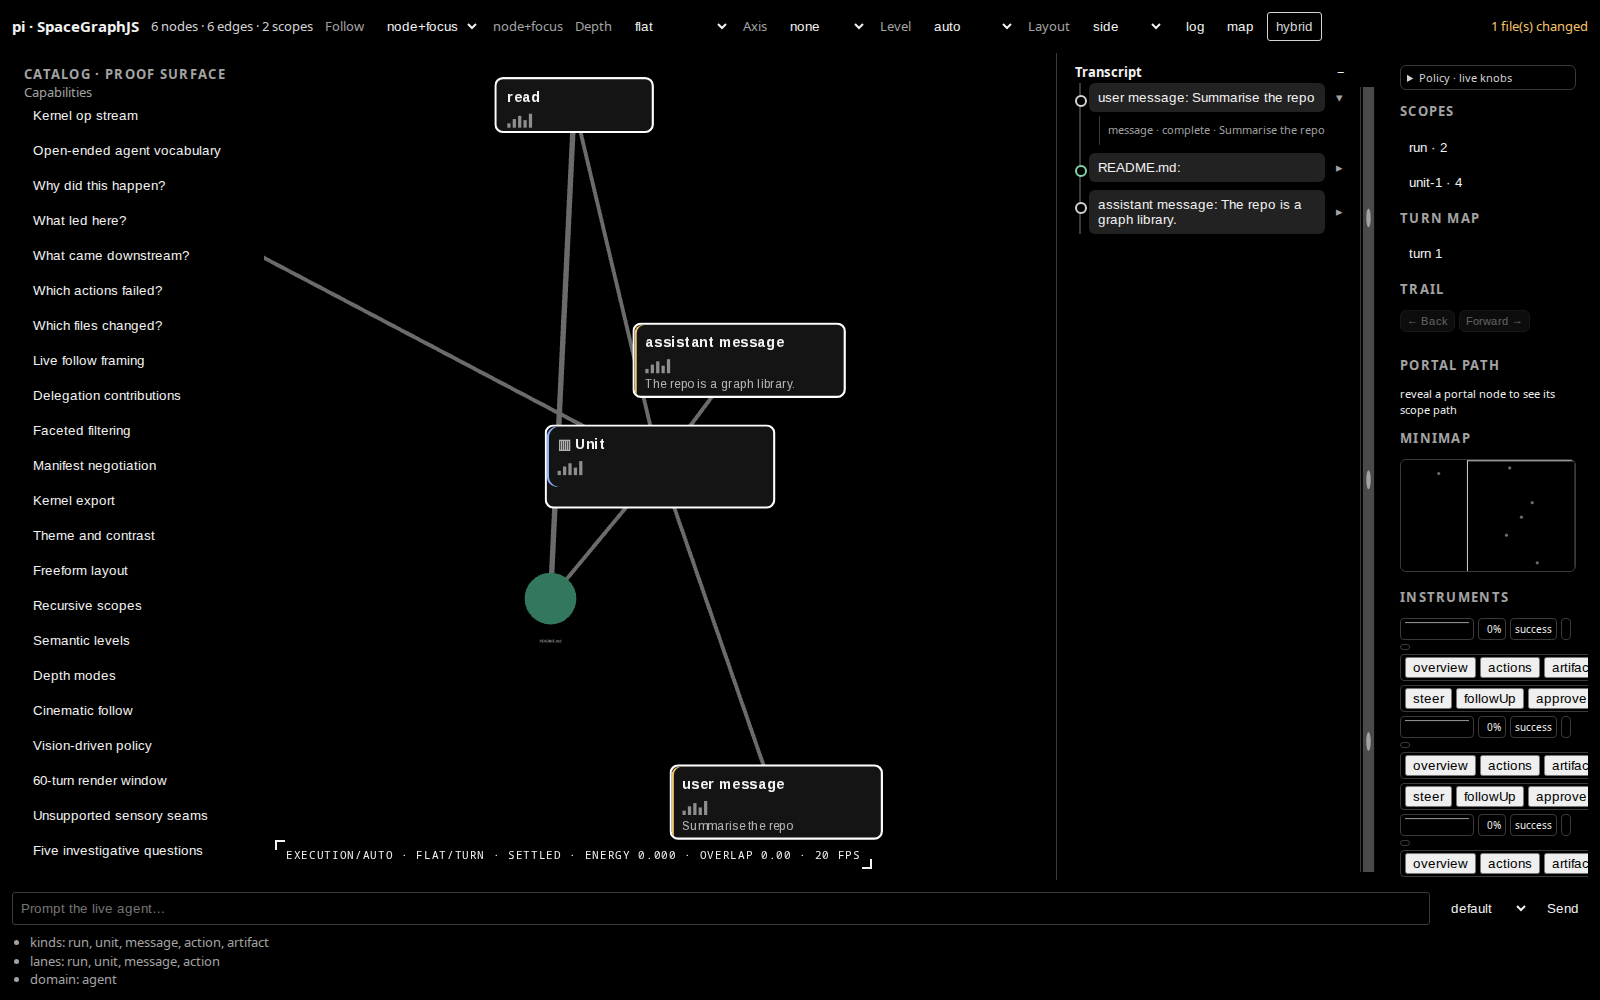
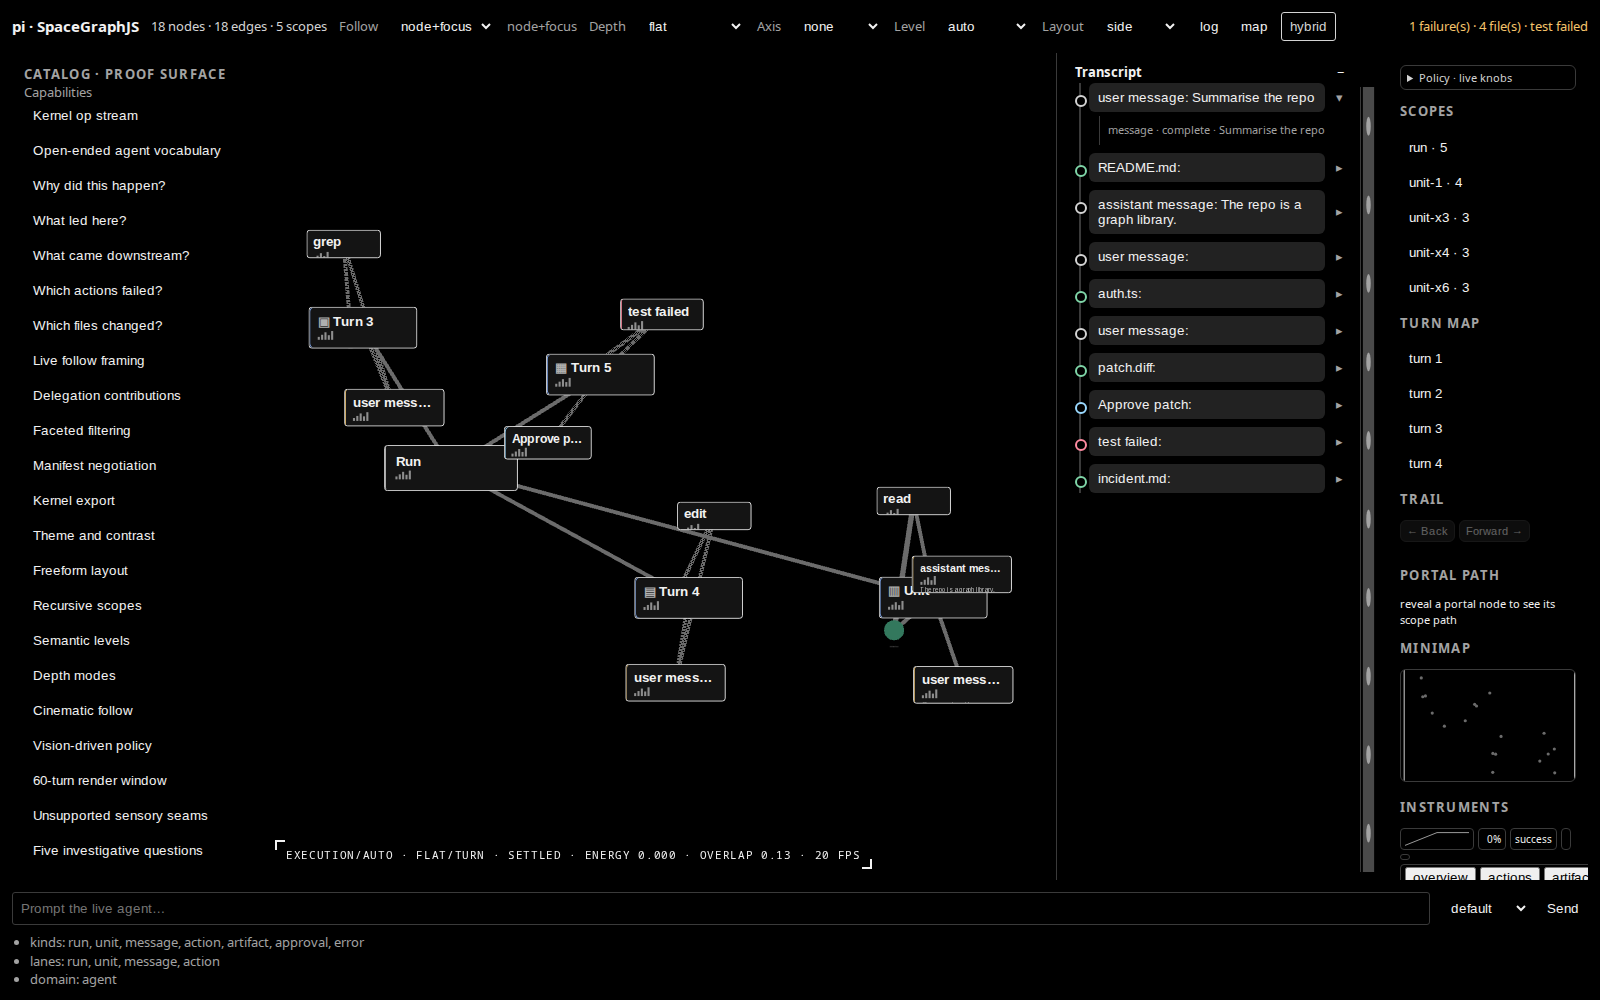
feat(pi): size labels by LOD threshold and add showcase scenario
Labels are now measured against a configurable on-screen floor
(ladder.minLabelPx) using the live viewport extent and the representation
rung, instead of fixed detail-scale pixels. Add a deterministic rich
scenario and compact preset for the screenshot, defer the one-shot fit
until the initial op burst arrives, and refresh the capture gallery.

diff --git a/app/pi/src/adapter.ts b/app/pi/src/adapter.ts
@@ -22,16 +22,16 @@ export type AgentAdapterModel = AdapterModel<AgentAdapterNode, AgentAdapterEdge>
 export type AgentLevel = RepresentationRung;
 
 const CARD_SIZES: Readonly<Record<string, readonly [number, number]>> = {
-    run: [260, 88],
-    unit: [214, 78],
-    message: [198, 70],
-    artifact: [152, 54],
-    file: [152, 54],
-    tool: [148, 52],
-    'read-tool': [148, 52],
-    action: [148, 52],
-    error: [164, 58],
-    approval: [180, 60],
+    run: [320, 110],
+    unit: [260, 100],
+    message: [240, 90],
+    artifact: [190, 72],
+    file: [190, 72],
+    tool: [178, 68],
+    'read-tool': [178, 68],
+    action: [178, 68],
+    error: [200, 76],
+    approval: [210, 80],
 };
 
 const DOT_SIZES: Readonly<Record<string, readonly [number, number]>> = {
@@ -93,6 +93,7 @@ export const cardMarkup = (
     context: CardContext,
     blend = 0,
     descending = false,
+    labelPx = 0,
 ): string => {
     const label = escapeHtml(node.label);
     const detail = escapeHtml(detailOf(node));
@@ -105,21 +106,23 @@ export const cardMarkup = (
         ? `<span aria-hidden="true" style="opacity:.7">${portalGlyph(node.scope)} </span>`
         : '';
     const attributes = `data-rung="${rung}" data-blend="${blend.toFixed(2)}" data-kind="${escapeHtml(node.kind)}" data-status="${status}"${portal}${descending ? ' data-descending="true"' : ''}`;
-    const box = 'display:flex;flex-direction:column;gap:3px;padding:8px 10px;color:inherit;font-family:inherit;transition:opacity var(--pi-blend,120ms)';
+    const box = 'display:flex;flex-direction:column;justify-content:center;gap:4px;padding:6% 8%;box-sizing:border-box;height:100%;color:inherit;font-family:inherit;overflow:hidden;transition:opacity var(--pi-blend,120ms)';
 
     if (rung === 'overview') {
-        return `<div ${attributes} style="${box}"><span style="font-weight:600">${glyph}${label}${badge}</span></div>`;
+        const labelSize = labelPx || 44;
+        return `<div ${attributes} style="${box}"><span style="font-size:${labelSize}px;font-weight:700;line-height:1;letter-spacing:-0.03em;white-space:nowrap;overflow:hidden;text-overflow:ellipsis;max-width:100%"><span aria-hidden="true" style="font-size:${Math.round(labelSize * 0.6)}px">${glyph}</span>${label}</span></div>`;
     }
     if (rung === 'execution') {
         const bars = [0.3, 0.55, 0.8, 0.5, 0.95]
-            .map((height) => `<i style="display:inline-block;width:3px;height:${Math.round(height * 14)}px;background:currentColor;opacity:.55"></i>`)
+            .map((height) => `<i style="display:inline-block;width:5px;height:${Math.round(height * 22)}px;background:currentColor;opacity:.55"></i>`)
             .join('');
-        return `<div ${attributes} style="${box}"><span style="font-weight:600">${glyph}${label}${badge}</span><span style="display:flex;align-items:flex-end;gap:2px;height:16px">${bars}</span><span style="opacity:.72;font-size:11px;white-space:nowrap;overflow:hidden;text-overflow:ellipsis">${detail.slice(0, 80)}</span></div>`;
+        const labelSize = labelPx || 26;
+        return `<div ${attributes} style="${box}"><span style="font-size:${labelSize}px;font-weight:700;line-height:1.1;letter-spacing:-0.02em;white-space:nowrap;overflow:hidden;text-overflow:ellipsis">${glyph}${label}${badge}</span><span style="display:flex;align-items:flex-end;gap:3px;height:22px">${bars}</span><span style="opacity:.72;font-size:${Math.max(12, labelSize * 0.6)}px;line-height:1.2;white-space:nowrap;overflow:hidden;text-overflow:ellipsis">${detail.slice(0, 80)}</span></div>`;
     }
     const scope = node.scope
-        ? `<span style="opacity:.7;font-size:11px">${portalGlyph(node.scope)} scope: ${escapeHtml(node.scope)}</span>`
+        ? `<span style="opacity:.7;font-size:13px">${portalGlyph(node.scope)} scope: ${escapeHtml(node.scope)}</span>`
         : '';
-    return `<div ${attributes} style="${box}"><span style="font-weight:600">${glyph}${label}${badge}</span><span style="opacity:.78;font-size:12px;line-height:16px;max-height:64px;overflow:hidden">${detail.slice(0, 320)}</span><span style="opacity:.6;font-size:11px">${escapeHtml(node.kind)} · ${status} · reveal / follow / trace</span>${scope}</div>`;
+    return `<div ${attributes} style="${box}"><span style="font-size:${labelPx || 20}px;font-weight:700;line-height:1.15">${glyph}${label}${badge}</span><span style="opacity:.78;font-size:15px;line-height:1.35;overflow:hidden">${detail.slice(0, 320)}</span><span style="opacity:.6;font-size:13px">${escapeHtml(node.kind)} · ${status} · reveal / follow / trace</span>${scope}</div>`;
 };
 
 /**
@@ -131,12 +134,13 @@ export const composedCardMarkup = (
     layers: readonly RepresentationLayer[],
     context: CardContext,
     descending = false,
+    labelPx = 0,
 ): string => {
     const primary = layers.at(-1);
     const secondary = layers.at(-2);
-    if (!secondary) return cardMarkup(node, primary?.rung ?? 'overview', context, 0, descending);
+    if (!secondary) return cardMarkup(node, primary?.rung ?? 'overview', context, 0, descending, labelPx);
     const layer = ({ rung, opacity }: RepresentationLayer, lower: boolean): string =>
-        `<div data-layer="${rung}" style="position:absolute;inset:0;opacity:${opacity.toFixed(3)};transition:opacity var(--pi-blend,120ms)${lower ? ';pointer-events:none' : ''}">${cardMarkup(node, rung, context, 0, descending)}</div>`;
+        `<div data-layer="${rung}" style="position:absolute;inset:0;opacity:${opacity.toFixed(3)};transition:opacity var(--pi-blend,120ms)${lower ? ';pointer-events:none' : ''}">${cardMarkup(node, rung, context, 0, descending, labelPx)}</div>`;
     return `<div data-rungs="${secondary.rung}+${primary!.rung}" style="position:relative;min-height:56px">${layer(secondary, true)}${layer(primary!, false)}</div>`;
 };
 

diff --git a/app/pi/src/host.ts b/app/pi/src/host.ts
@@ -56,7 +56,7 @@ import {
 } from './annotations';
 import { CAPABILITIES, capabilityContext, runCapability, type PiHostState } from './capabilities';
 import { buildCatalog, mountCatalog, type Catalog } from './catalog';
-import { FIXTURE_ID, fixtureKernel } from './fixture';
+import { FIXTURE_ID, fixtureKernel, richFixtureKernel } from './fixture';
 import { foldKernelOps } from './ops';
 import {
     UNSUPPORTED,
@@ -64,6 +64,7 @@ import {
     exportHTML,
     exportJSON,
     exportSVG,
+    labelFontPx,
     levelForZoom,
     scoreVision,
     unsupportedSeams,
@@ -297,6 +298,8 @@ export class PiHost {
     #transcriptWidth = 320;
     #transcriptHeight = 200;
     #expandedMessages = new Set<string>();
+    #initialFitDone = false;
+    #initialFitTimer?: ReturnType<typeof setTimeout>;
     #policyPanel?: ReturnType<typeof mountPolicyPanel>;
     #policyListeners = new Set<(event: PolicyChangeEvent) => void>();
     #recorder: SessionRecorder;
@@ -321,6 +324,8 @@ export class PiHost {
                 matchMedia('(prefers-reduced-motion: reduce)').matches);
         const params =
             typeof location === 'undefined' ? new URLSearchParams() : new URLSearchParams(location.search);
+        const scenario = params.get('scenario');
+        if (scenario === 'rich') this.#kernel = richFixtureKernel();
         const presetID = params.get('preset');
         const embedded = params.get('policy');
         if (presetID && presetById(presetID)) {
@@ -606,7 +611,11 @@ export class PiHost {
             this.setVisionLoop(true);
         }
         this.applyPolicy();
-        this.fitView();
+        if (this.#kernel.nodes.length > 0) {
+            this.#initialFitDone = true;
+            this.fitView();
+            requestAnimationFrame(() => this.paint());
+        }
         this.syncClock();
 
         document.addEventListener('visibilitychange', () => {
@@ -670,6 +679,17 @@ export class PiHost {
         this.renderTranscript();
         this.renderTurnMap();
         this.syncClock();
+        if (!this.#initialFitDone && this.#kernel.nodes.length > 0) {
+            if (this.#initialFitTimer) clearTimeout(this.#initialFitTimer);
+            this.#initialFitTimer = setTimeout(() => {
+                if (this.#initialFitDone) return;
+                this.#initialFitDone = true;
+                this.simulation.settle();
+                this.renderPositions();
+                this.fitView();
+                requestAnimationFrame(() => this.paint());
+            }, 120);
+        }
     }
 
     paint(): void {
@@ -682,6 +702,10 @@ export class PiHost {
             return scope ? { ...node, scope } : node;
         });
         const values = this.#resolved.values;
+        const viewport = this.renderer.getViewport();
+        const pixelsPerWorld =
+            (el('canvas').clientWidth || 1000) / Math.max(viewport.extent?.width ?? 1000, 1);
+        const minLabelPx = Number(values['ladder.minLabelPx']);
         const thresholds = {
             promoteAt: Number(values['ladder.promoteAt']),
             legibilityGate: Number(values['ladder.legibilityGate']),
@@ -705,9 +729,15 @@ export class PiHost {
                 const rung = representationRung(input, thresholds);
                 if (rung === 'detail') detailNodes.add(node.id);
                 const layers = representationLayers(input, thresholds);
+                const labelPx = labelFontPx(
+                    minLabelPx,
+                    pixelsPerWorld,
+                    nodeSize(node.kind, true)[0],
+                    node.label.length,
+                );
                 return layers.length > 1
-                    ? composedCardMarkup(node, layers, context, descending)
-                    : cardMarkup(node, rung, context, blend, descending);
+                    ? composedCardMarkup(node, layers, context, descending, labelPx)
+                    : cardMarkup(node, rung, context, blend, descending, labelPx);
             },
         });
         if (this.#traceIds.length) {

diff --git a/app/pi/src/fixture.ts b/app/pi/src/fixture.ts
@@ -1,5 +1,6 @@
 import { AgentEventMapper, type AgentEvent } from '@spacegraphjs/agent';
 import type { Kernel, KernelOp } from '@spacegraphjs/kernel';
+import { localOps } from './local-feed';
 import { foldKernelOps } from './ops';
 
 export const FIXTURE_ID = 'pi:local';
@@ -52,3 +53,53 @@ export const fixtureOps = (): KernelOp[] => {
 };
 
 export const fixtureKernel = (): Kernel => foldKernelOps(fixtureOps());
+
+const richNode = (
+    id: string,
+    kind: string,
+    label: string,
+    unitId: string,
+    role: string,
+    status = 'complete',
+): KernelOp => ({
+    op: 'add-node',
+    node: { id: fixtureID('local', id), kind, label, data: { unitId, role, status } },
+});
+
+const richEdge = (id: string, kind: string, source: string, target: string): KernelOp => ({
+    op: 'add-edge',
+    edge: {
+        id: fixtureID('local', `e-${id}`),
+        kind,
+        source: fixtureID('local', source),
+        target: fixtureID('local', target),
+    },
+});
+
+/** A denser, deterministic scenario for showcases; the canonical fixture stays unchanged. */
+export const richFixtureOps = (): KernelOp[] => [
+    ...(['x3', 'x4'] as const).flatMap((unit, index) => {
+        const tool = index === 0 ? 'grep' : 'edit';
+        const artifact = index === 0 ? 'auth.ts' : 'patch.diff';
+        return [
+            richNode(unit, 'unit', `Turn ${index + 3}`, unit, 'unit'),
+            richNode(`q${index + 3}`, 'message', 'user message', unit, 'message'),
+            richNode(tool, 'action', tool, unit, 'action'),
+            richNode(artifact, 'artifact', artifact, unit, 'artifact'),
+            richEdge(`contains-${unit}`, 'contains', 'run', unit),
+            richEdge(`asks-${unit}`, 'orders', unit, `q${index + 3}`),
+            richEdge(`reads-${unit}`, 'reads', `q${index + 3}`, tool),
+            richEdge(`produces-${unit}`, 'produces', tool, artifact),
+        ];
+    }),
+    richNode('x6', 'unit', 'Turn 5', 'x6', 'unit'),
+    richNode('approve', 'approval', 'Approve patch', 'x6', 'approval', 'pending'),
+    richNode('failed', 'error', 'test failed', 'x6', 'error', 'failed'),
+    richNode('report', 'artifact', 'incident.md', 'x6', 'artifact'),
+    richEdge('contains-x6', 'contains', 'run', 'x6'),
+    richEdge('gates', 'gates', 'approve', 'x6'),
+    richEdge('fails', 'orders', 'x6', 'failed'),
+    richEdge('reports', 'produces', 'failed', 'report'),
+];
+
+export const richFixtureKernel = (): Kernel => foldKernelOps([...localOps(), ...richFixtureOps()]);

diff --git a/app/pi/tests/browser.spec.ts b/app/pi/tests/browser.spec.ts
@@ -105,6 +105,28 @@ test.describe('the Pi reference app', () => {
         noErrors(errors);
     });
 
+    test('keeps card labels at the configured on-screen minimum', async ({ page }) => {
+        const errors = await boot(page);
+        const measure = () =>
+            page.evaluate(() => {
+                const span = document.querySelector<HTMLElement>('#canvas [data-rung] > span')!;
+                const font = Number.parseFloat(getComputedStyle(span).fontSize);
+                const extent = (window as any).__pi.viewport().extent.width;
+                const canvas = document.querySelector<HTMLElement>('#canvas')!.clientWidth;
+                return {
+                    screenPx: (font * canvas) / Math.max(extent, 1),
+                    minPx: Number((window as any).__pi.policy().values['ladder.minLabelPx']),
+                };
+            });
+        const initial = await measure();
+        expect(initial.screenPx).toBeGreaterThanOrEqual(initial.minPx - 0.5);
+        await page.evaluate(() => (window as any).__pi.setKnob('ladder.minLabelPx', 28));
+        const raised = await measure();
+        expect(raised.minPx).toBe(28);
+        expect(raised.screenPx).toBeGreaterThanOrEqual(28 - 0.5);
+        noErrors(errors);
+    });
+
     test('follows the newest node and reports attention from the local stream', async ({ page }) => {
         const errors = await boot(page);
 

diff --git a/app/pi/tests/fixture.test.ts b/app/pi/tests/fixture.test.ts
@@ -11,7 +11,7 @@ import {
 } from '@spacegraphjs/agent';
 import { DEFAULT_THEME } from '@spacegraphjs/renderer';
 import { CAPABILITIES, capabilityContext, runCapability } from '../src/capabilities';
-import { fixtureID, fixtureKernel, fixtureOps } from '../src/fixture';
+import { fixtureID, fixtureKernel, fixtureOps, richFixtureKernel, richFixtureOps } from '../src/fixture';
 
 const kernel = fixtureKernel();
 const view = agentDomain.build(kernel);
@@ -55,6 +55,15 @@ describe('canonical fixture', () => {
             fixtureID('local', '1:retry'),
             failure,
         ]);
+    });
+
+    it('builds a deterministic showcase kernel denser than the canonical fixture', () => {
+        const rich = richFixtureKernel();
+        expect(rich.nodes.length).toBeGreaterThan(kernel.nodes.length);
+        expect(rich.nodes.length).toBe(richFixtureKernel().nodes.length);
+        expect(richFixtureOps().some((op) => op.op === 'add-edge' && op.edge.kind === 'inferred-cause')).toBe(false);
+        expect(rich.nodes.some((node) => node.kind === 'approval')).toBe(true);
+        expect(rich.nodes.some((node) => node.kind === 'error')).toBe(true);
     });
 
     it('publishes each question as a deterministic capability', () => {

diff --git a/app/pi/tests/adapter.test.ts b/app/pi/tests/adapter.test.ts
@@ -2,6 +2,7 @@ import { describe, expect, test } from 'vitest';
 import { representationRung } from 'spacegraphjs/salience';
 import { cardMarkup, composedCardMarkup, portalGlyph, toAdapterModel } from '../src/adapter';
 import { fixtureKernel } from '../src/fixture';
+import { labelFontPx } from '../src/policy/host';
 import { agentScopes } from '../src/scopes';
 import { agentDomain } from '@spacegraphjs/agent';
 
@@ -27,6 +28,14 @@ describe('representation ladder', () => {
         expect(execution).toContain('<i ');
         expect(detail).toContain('data-rung="detail"');
         expect(detail.length).toBeGreaterThan(overview.length);
+    });
+
+    test('label typography compensates for zoom scale and fits the node', () => {
+        const zoomedOut = labelFontPx(14, 0.3, 320, 8);
+        expect(zoomedOut).toBeGreaterThanOrEqual(14 / 0.3);
+        expect(labelFontPx(14, 3, 320, 8)).toBeLessThan(zoomedOut);
+        expect(labelFontPx(14, 3, 320, 8)).toBeGreaterThanOrEqual(14 / 3);
+        expect(cardMarkup(node, 'overview', context, 0, false, 48)).toContain('font-size:48px');
     });
 
     test('composites two neighbouring rungs without changing node identity', () => {

diff --git a/app/pi/src/policy/host.ts b/app/pi/src/policy/host.ts
@@ -8,6 +8,19 @@ export type Position = { x: number; y: number; z: number };
 export type VisionScores = { readonly overlap: number; readonly legibility: number };
 export type UnsupportedSeam = { readonly id: string; readonly reason: string };
 
+/** LOD typography: keep a label at least `minPx` on screen, capped by the room its node offers. */
+export const labelFontPx = (
+    minPx: number,
+    pixelsPerWorld: number,
+    nodeWidth: number,
+    textLength: number,
+): number => {
+    const base = 20;
+    const readable = minPx / Math.max(pixelsPerWorld, 0.01);
+    const fill = Math.max(nodeWidth / Math.max(textLength * 0.55, 1), base);
+    return Math.min(Math.max(readable, base), fill);
+};
+
 export const CARD_BUDGETS: Readonly<Record<AgentLevel, number>> = {
     overview: 12,
     execution: 40,

diff --git a/app/pi/src/policy/schema.ts b/app/pi/src/policy/schema.ts
@@ -93,6 +93,7 @@ export const POLICY_SCHEMA: PolicySchema = {
         number('ladder.legibilityGate', 'ladder', 0.7, 0, 1, 0.01, 'Legibility required to promote.', '2'),
         number('ladder.demoteBelow', 'ladder', 0.5, 0, 1, 0.01, 'Legibility below which detail demotes.', '2'),
         number('ladder.blendMs', 'ladder', 120, 0, 1000, 20, 'Rung crossfade duration.', '2'),
+        number('ladder.minLabelPx', 'ladder', 14, 8, 32, 1, 'Minimum on-screen label size at any rung.', '2'),
         number('salience.decayRate', 'salience', 1.6, 0.1, 6, 0.1, 'Exponential activity decay rate.', '3'),
         number('emphasis.cap', 'emphasis', 1, 0.2, 1, 0.05, 'Upper bound on node emphasis.', '4'),
         number('emphasis.trace', 'emphasis', 1, 0.2, 1, 0.05, 'Emphasis given to traced nodes.', '4'),

diff --git a/app/pi/src/policy/presets.ts b/app/pi/src/policy/presets.ts
@@ -50,6 +50,18 @@ export const POLICY_PRESETS: readonly PolicyPreset[] = [
     preset('light', 'Light theme', 'Which theme variant is legible for the canonical fixture? (10)', {
         'theme.variant': 'light',
     }),
+    preset(
+        'showcase',
+        'Showcase',
+        'How compact can a multi-turn run stay while every node remains legible? (2, 9)',
+        {
+            'geometry.gap': 40,
+            'geometry.padding': 0,
+            'geometry.repulsion': 200,
+            'depth.step': 40,
+            'guardrails.window': 40,
+        },
+    ),
 ];
 
 export const presetById = (id: string): PolicyPreset | undefined =>

diff --git a/app/pi/src/client.ts b/app/pi/src/client.ts
@@ -14,8 +14,10 @@ const boot = async (): Promise<void> => {
     await host.mount(el('canvas'));
     host.setClientID(clientID);
 
-    const events = new EventSource(`/events?client=${clientID}`);
-    events.onmessage = (event) => host.consume(decodeOp(event.data as string));
+    if (new URLSearchParams(location.search).get('scenario') !== 'rich') {
+        const events = new EventSource(`/events?client=${clientID}`);
+        events.onmessage = (event) => host.consume(decodeOp(event.data as string));
+    }
 
     el<HTMLFormElement>('prompt-form').addEventListener('submit', async (submit) => {
         submit.preventDefault();

diff --git a/app/pi/tests/screenshots.spec.ts b/app/pi/tests/screenshots.spec.ts
@@ -27,7 +27,7 @@ const capture = async (page: Page, name: string): Promise<void> => {
 
 test.describe('Pi flagship screenshots', () => {
     test('captures the agent cockpit and the proof catalog', async ({ page }) => {
-        const errors = await boot(page);
+        const errors = await boot(page, '?scenario=rich&preset=showcase');
 
         await page.evaluate(() => (window as any).__pi.run('vocabulary'));
         await expect(page.locator('#evidence li').first()).toBeVisible();

diff --git a/app/pi/tests/policy-schema.test.ts b/app/pi/tests/policy-schema.test.ts
@@ -36,6 +36,7 @@ describe('policy schema', () => {
         expect(knobByID(POLICY_SCHEMA, 'bands.overviewMax')?.family).toBe('bands');
         expect(defaultVector(POLICY_SCHEMA)['depth.mode']).toBe('flat');
         expect(defaultVector(POLICY_SCHEMA)['depth.step']).toBe(40);
+        expect(knobByID(POLICY_SCHEMA, 'ladder.minLabelPx')?.default).toBe(14);
     });
 
     it('coerces once at the boundary and drops invalid values', () => {
